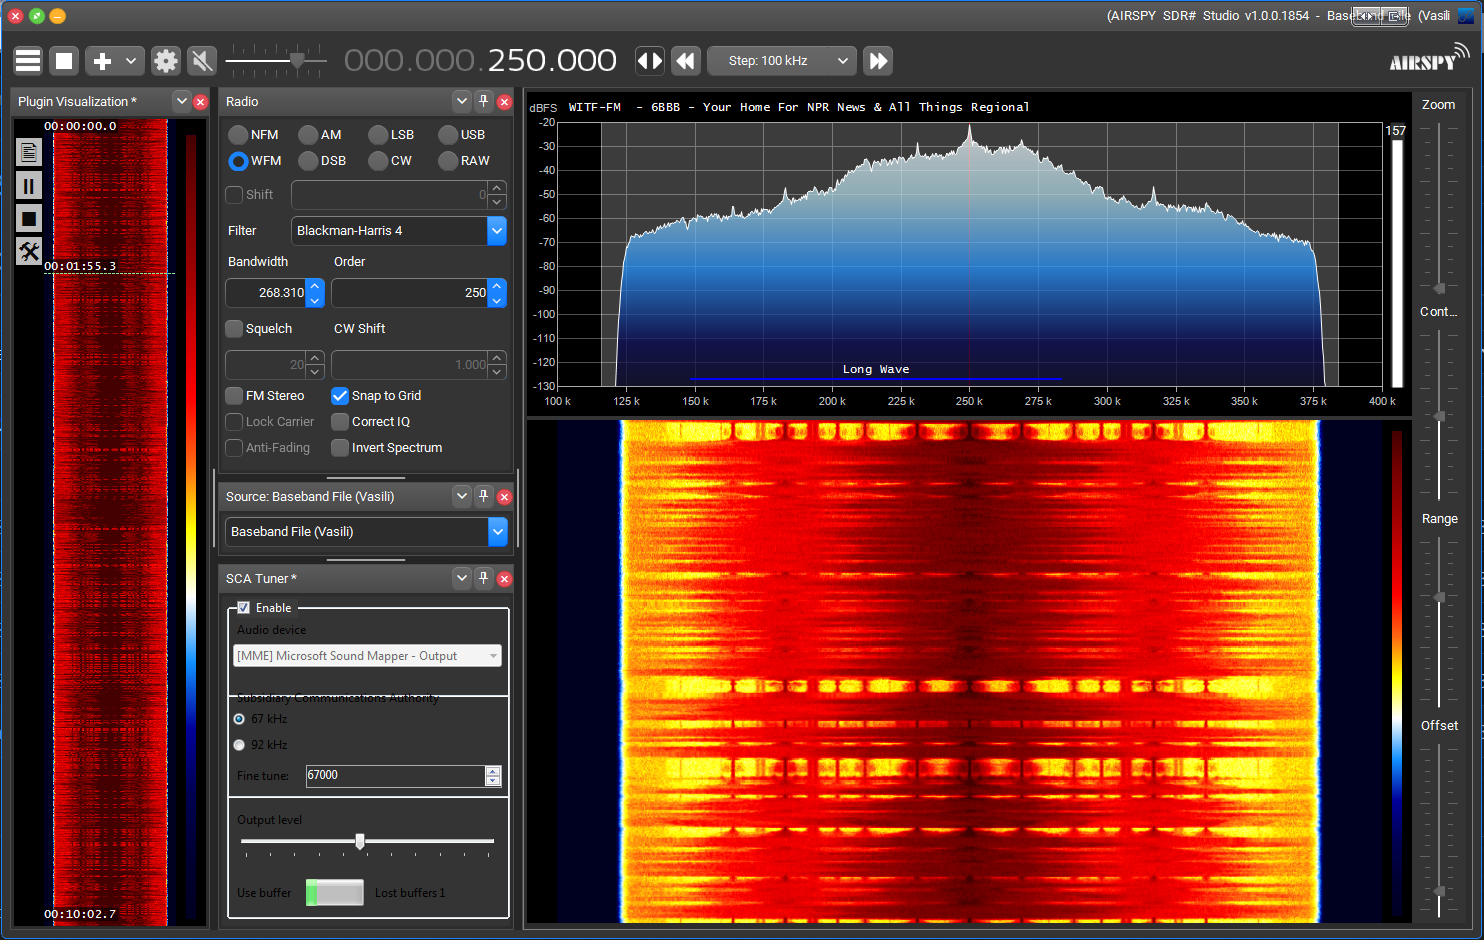
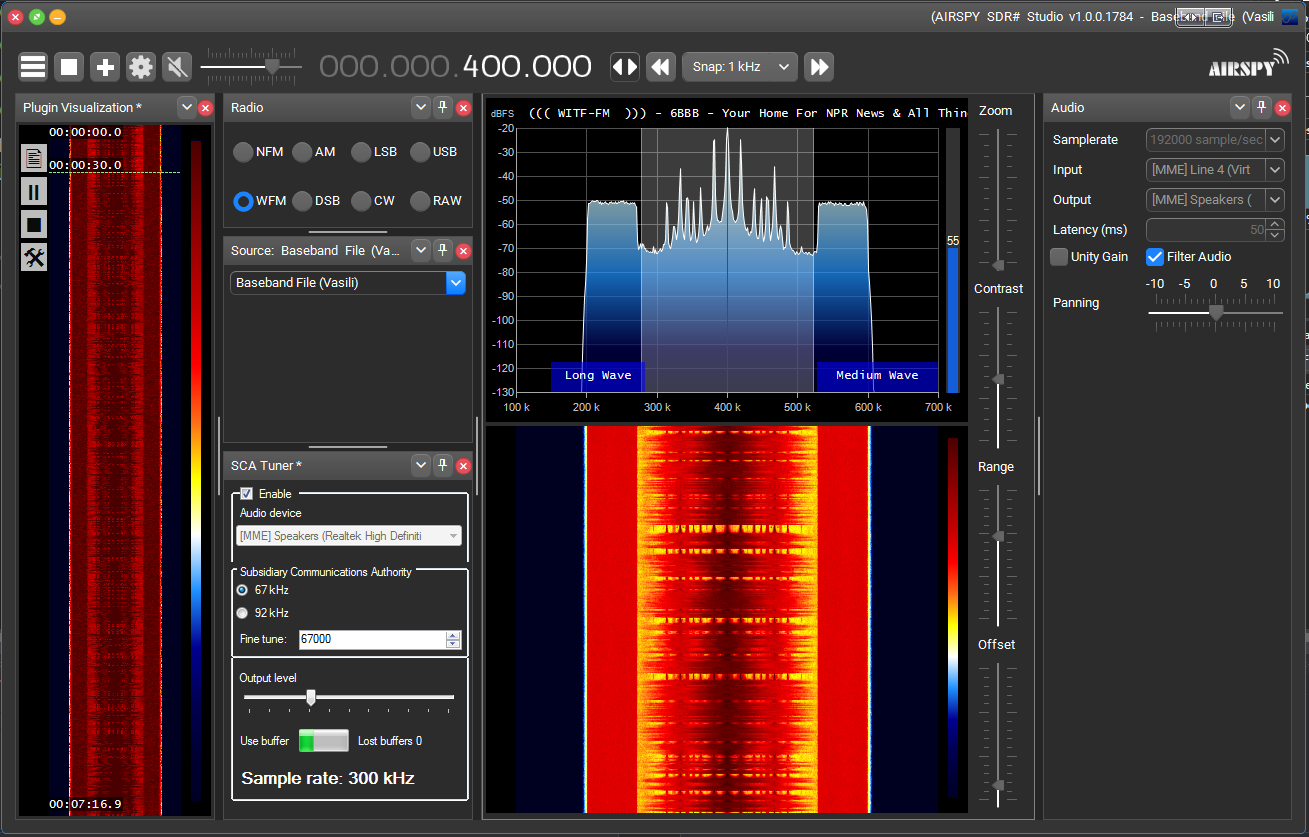
Added sample rate display and fixed a bug where if samplerate would be > 400, plugin would stop working

diff --git a/SDRSharp.SCATuner/UI/SCATunerPanel.Designer.cs b/SDRSharp.SCATuner/UI/SCATunerPanel.Designer.cs
@@ -47,6 +47,7 @@ namespace SDRSharp.SCATuner
             this.auxAudioEnableCheckBox = new System.Windows.Forms.CheckBox();
             this.label1 = new System.Windows.Forms.Label();
             this.audioDeviceComboBox = new System.Windows.Forms.ComboBox();
+            this.SampleRateLbl = new System.Windows.Forms.Label();
             ((System.ComponentModel.ISupportInitialize)(this.volumeTrackBar)).BeginInit();
             this.groupBox1.SuspendLayout();
             this.SCAGroup.SuspendLayout();
@@ -110,6 +111,7 @@ namespace SDRSharp.SCATuner
             // 
             this.groupBox1.Anchor = ((System.Windows.Forms.AnchorStyles)(((System.Windows.Forms.AnchorStyles.Top | System.Windows.Forms.AnchorStyles.Left) 
             | System.Windows.Forms.AnchorStyles.Right)));
+            this.groupBox1.Controls.Add(this.SampleRateLbl);
             this.groupBox1.Controls.Add(this.SCAGroup);
             this.groupBox1.Controls.Add(this.auxAudioEnableCheckBox);
             this.groupBox1.Controls.Add(this.label1);
@@ -121,7 +123,7 @@ namespace SDRSharp.SCATuner
             this.groupBox1.Controls.Add(this.label2);
             this.groupBox1.Location = new System.Drawing.Point(4, 3);
             this.groupBox1.Name = "groupBox1";
-            this.groupBox1.Size = new System.Drawing.Size(200, 277);
+            this.groupBox1.Size = new System.Drawing.Size(200, 315);
             this.groupBox1.TabIndex = 10;
             this.groupBox1.TabStop = false;
             // 
@@ -243,13 +245,23 @@ namespace SDRSharp.SCATuner
             this.audioDeviceComboBox.TabIndex = 0;
             this.audioDeviceComboBox.SelectedIndexChanged += new System.EventHandler(this.audioDeviceComboBox_SelectedIndexChanged);
             // 
+            // SampleRateLbl
+            // 
+            this.SampleRateLbl.AutoSize = true;
+            this.SampleRateLbl.Font = new System.Drawing.Font("Microsoft Sans Serif", 12F, System.Drawing.FontStyle.Bold, System.Drawing.GraphicsUnit.Point, ((byte)(238)));
+            this.SampleRateLbl.Location = new System.Drawing.Point(6, 282);
+            this.SampleRateLbl.Name = "SampleRateLbl";
+            this.SampleRateLbl.Size = new System.Drawing.Size(123, 20);
+            this.SampleRateLbl.TabIndex = 11;
+            this.SampleRateLbl.Text = "Sample Rate: ";
+            // 
             // SCATunerPanel
             // 
             this.AutoScaleDimensions = new System.Drawing.SizeF(6F, 13F);
             this.AutoScaleMode = System.Windows.Forms.AutoScaleMode.Font;
             this.Controls.Add(this.groupBox1);
             this.Name = "SCATunerPanel";
-            this.Size = new System.Drawing.Size(204, 286);
+            this.Size = new System.Drawing.Size(204, 332);
             ((System.ComponentModel.ISupportInitialize)(this.volumeTrackBar)).EndInit();
             this.groupBox1.ResumeLayout(false);
             this.groupBox1.PerformLayout();
@@ -277,5 +289,6 @@ namespace SDRSharp.SCATuner
         private System.Windows.Forms.Label label4;
         private System.Windows.Forms.Label label5;
         private System.Windows.Forms.NumericUpDown fineTunningCtrl;
+        private System.Windows.Forms.Label SampleRateLbl;
     }
 }

diff --git a/SDRSharp.SCATuner/Audio/AudioPlayer.cs b/SDRSharp.SCATuner/Audio/AudioPlayer.cs
@@ -41,6 +41,14 @@ namespace SDRSharp.SCATuner
             }
         }
 
+        public int InternalSampleRate
+        {
+            get
+            {
+                return (int)(this._sampleRate) / 1000;
+            }
+        }
+
         public double SCAFrequency
         {
             set
@@ -131,14 +139,9 @@ namespace SDRSharp.SCATuner
         {
             if (this._wavePlayer == null || samplerate != this._sampleRate)
             {
-                if (samplerate <= 0.0 || samplerate > 400000.0)
-                {
-                    return;
-                }
                 this._sampleRate = samplerate;
                 this._sampleRateOut = this.control.AudioSampleRate;
                 this._maxBufferSize = (int)this._sampleRate;
-
 
                 //We multiplay our Length by 0.1 so audio device doesn't run out of samples (hear silence when that happens)
                 this._inputLength = (int)(this._sampleRate*OutputLatency);

diff --git a/SDRSharp.SCATuner/UI/SCATunerPanel.cs b/SDRSharp.SCATuner/UI/SCATunerPanel.cs
@@ -144,6 +144,9 @@ namespace SDRSharp.SCATuner
         {
             this.disbalanceLabel.Text = string.Format("Lost buffers {0:f0}", this._player.LostBuffers);
             this.bufferProgressBar.Value = this._player.BufferSize;
+
+            //Show user what internal sapmle rate we have
+            this.SampleRateLbl.Text = String.Format("Sample rate: {0} kHz", this._player.InternalSampleRate);
         }
 
         private void audioDeviceComboBox_SelectedIndexChanged(object sender, EventArgs e)
